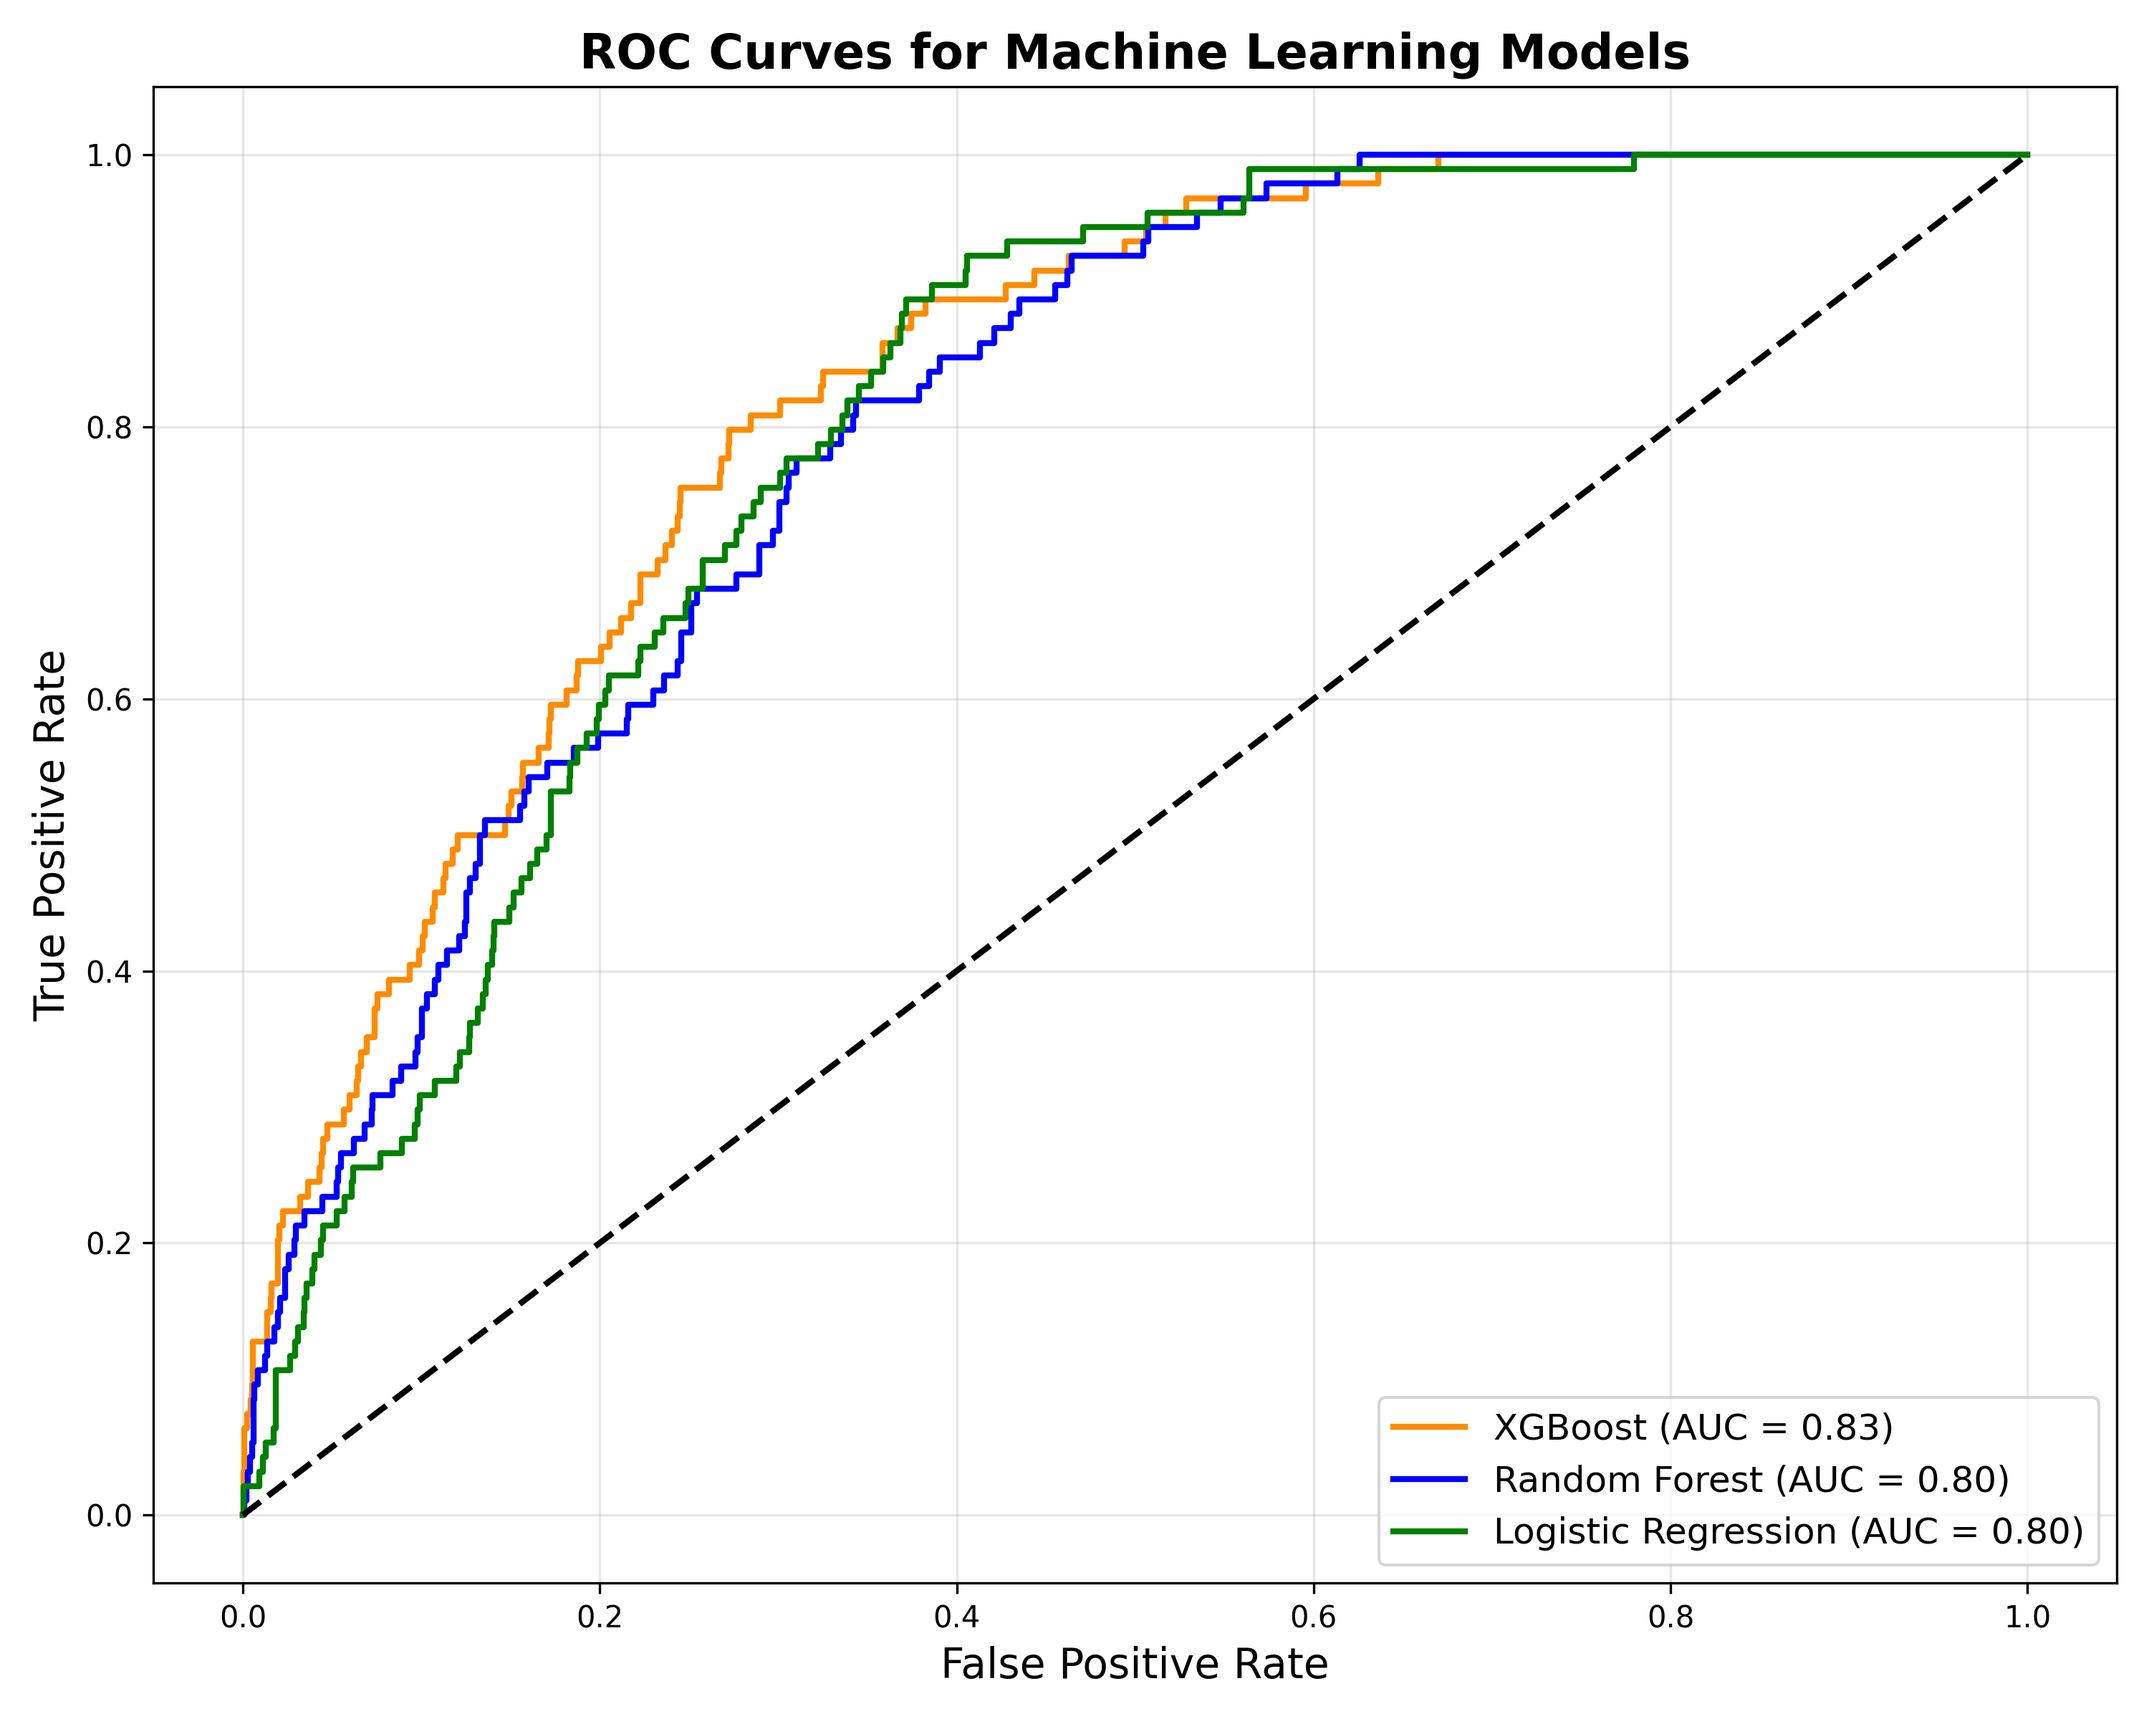
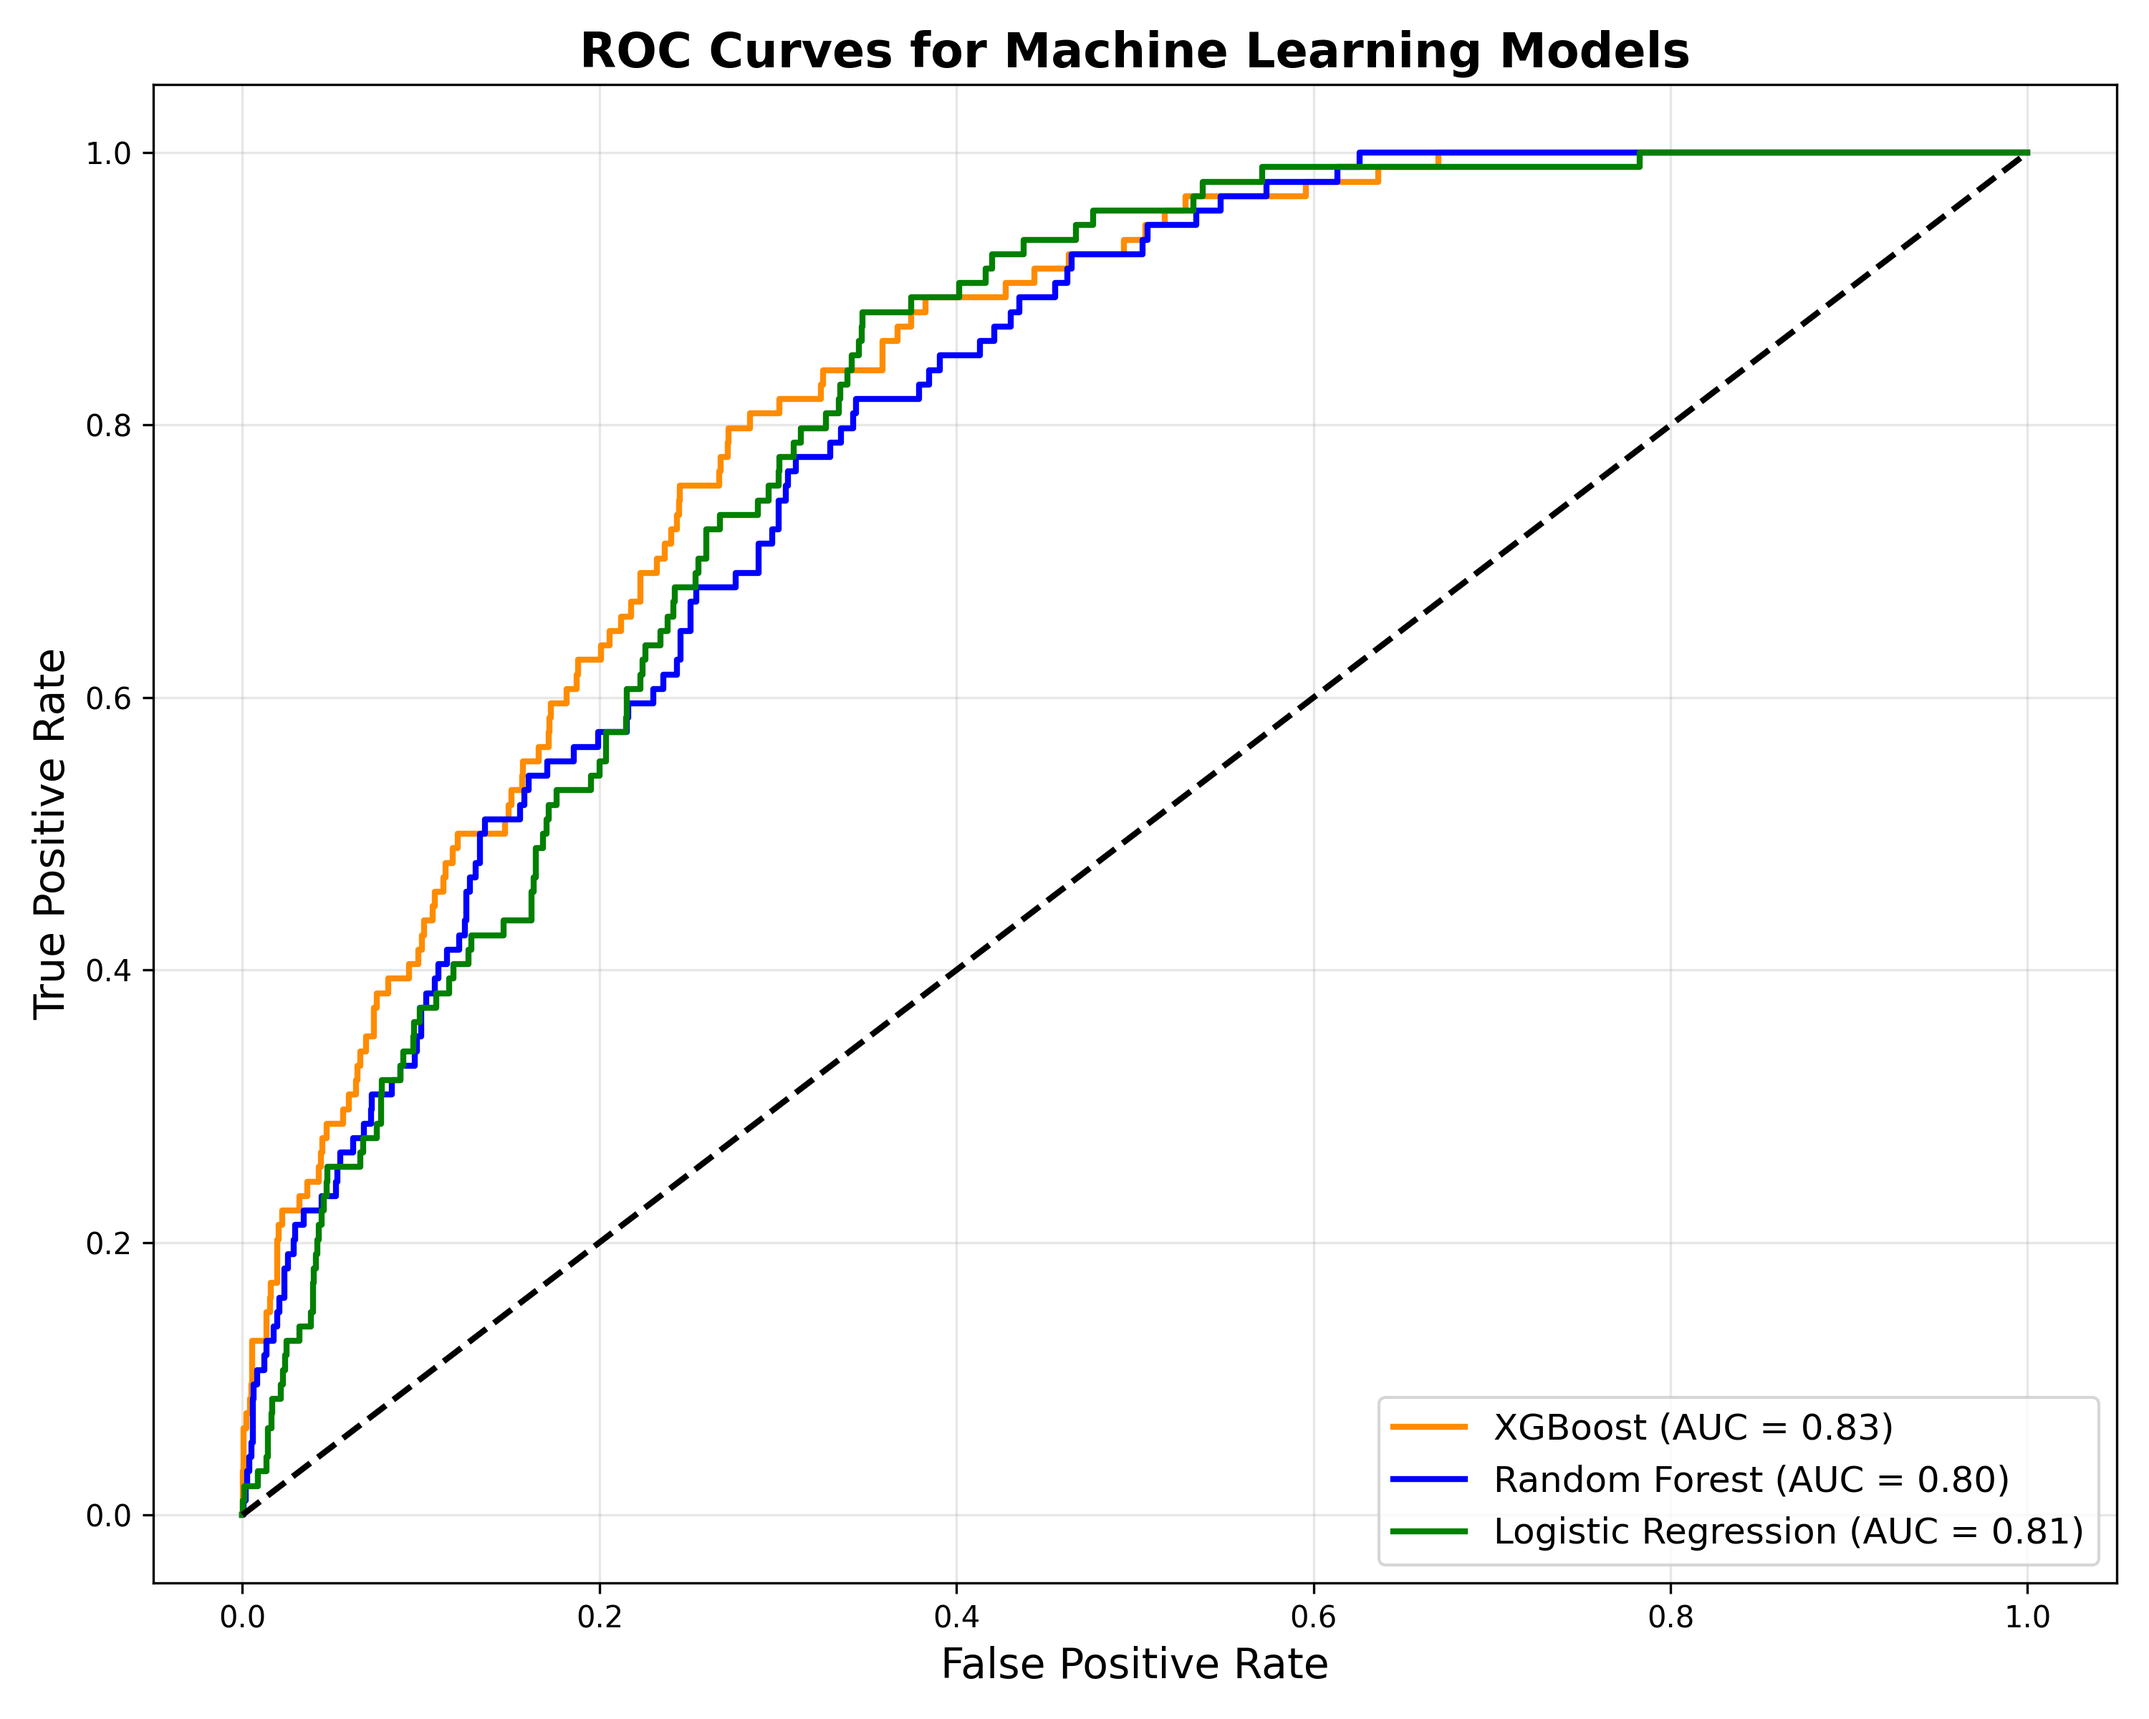
minor readability tweaks

diff --git a/main.py b/main.py
@@ -55,8 +55,10 @@ def main():
     print("\nClass distribution in y_test:")
     print(y_test_bone.value_counts())    
     
-    engine(X_resampled_bone,X_test_bone,y_resampled_bone,y_test_bone)
+    #using original, non SMOTE data
+    engine(X_train_bone,X_test_bone,y_train_bone,y_test_bone)
 
+    #using SMOTE data
     engine(X_resampled_bone,X_test_bone,y_resampled_bone,y_test_bone)
 
 
